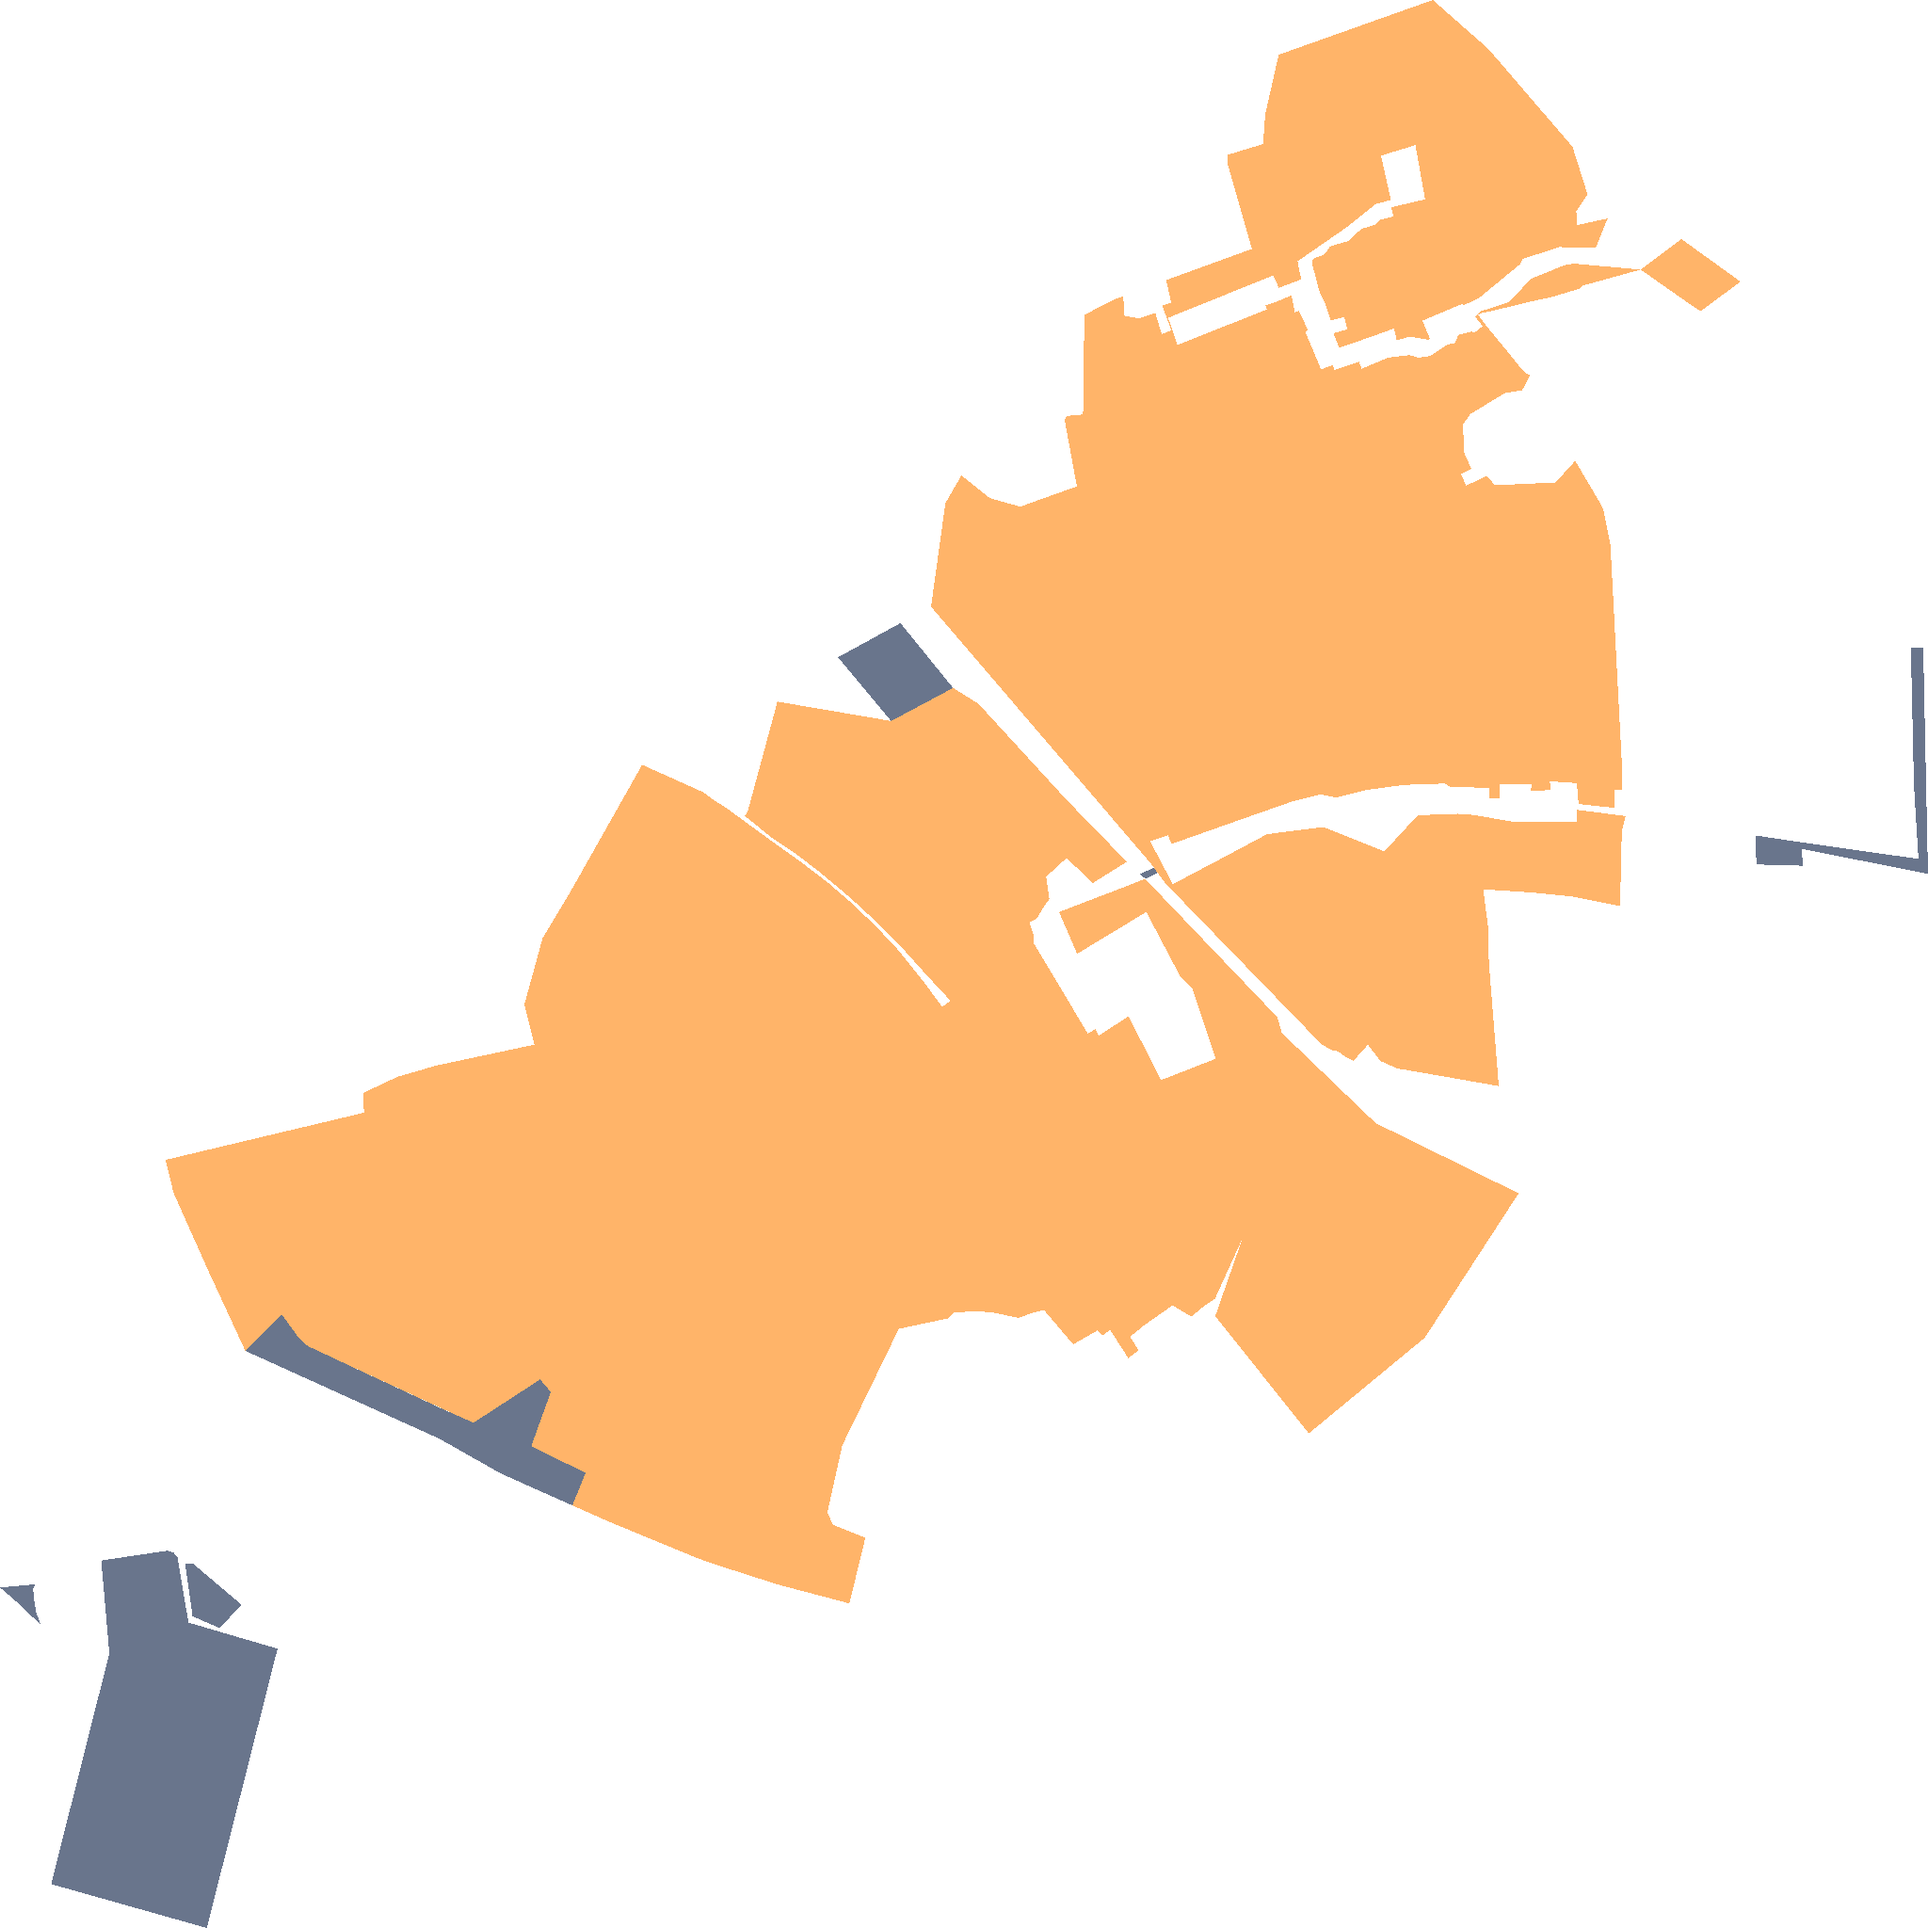
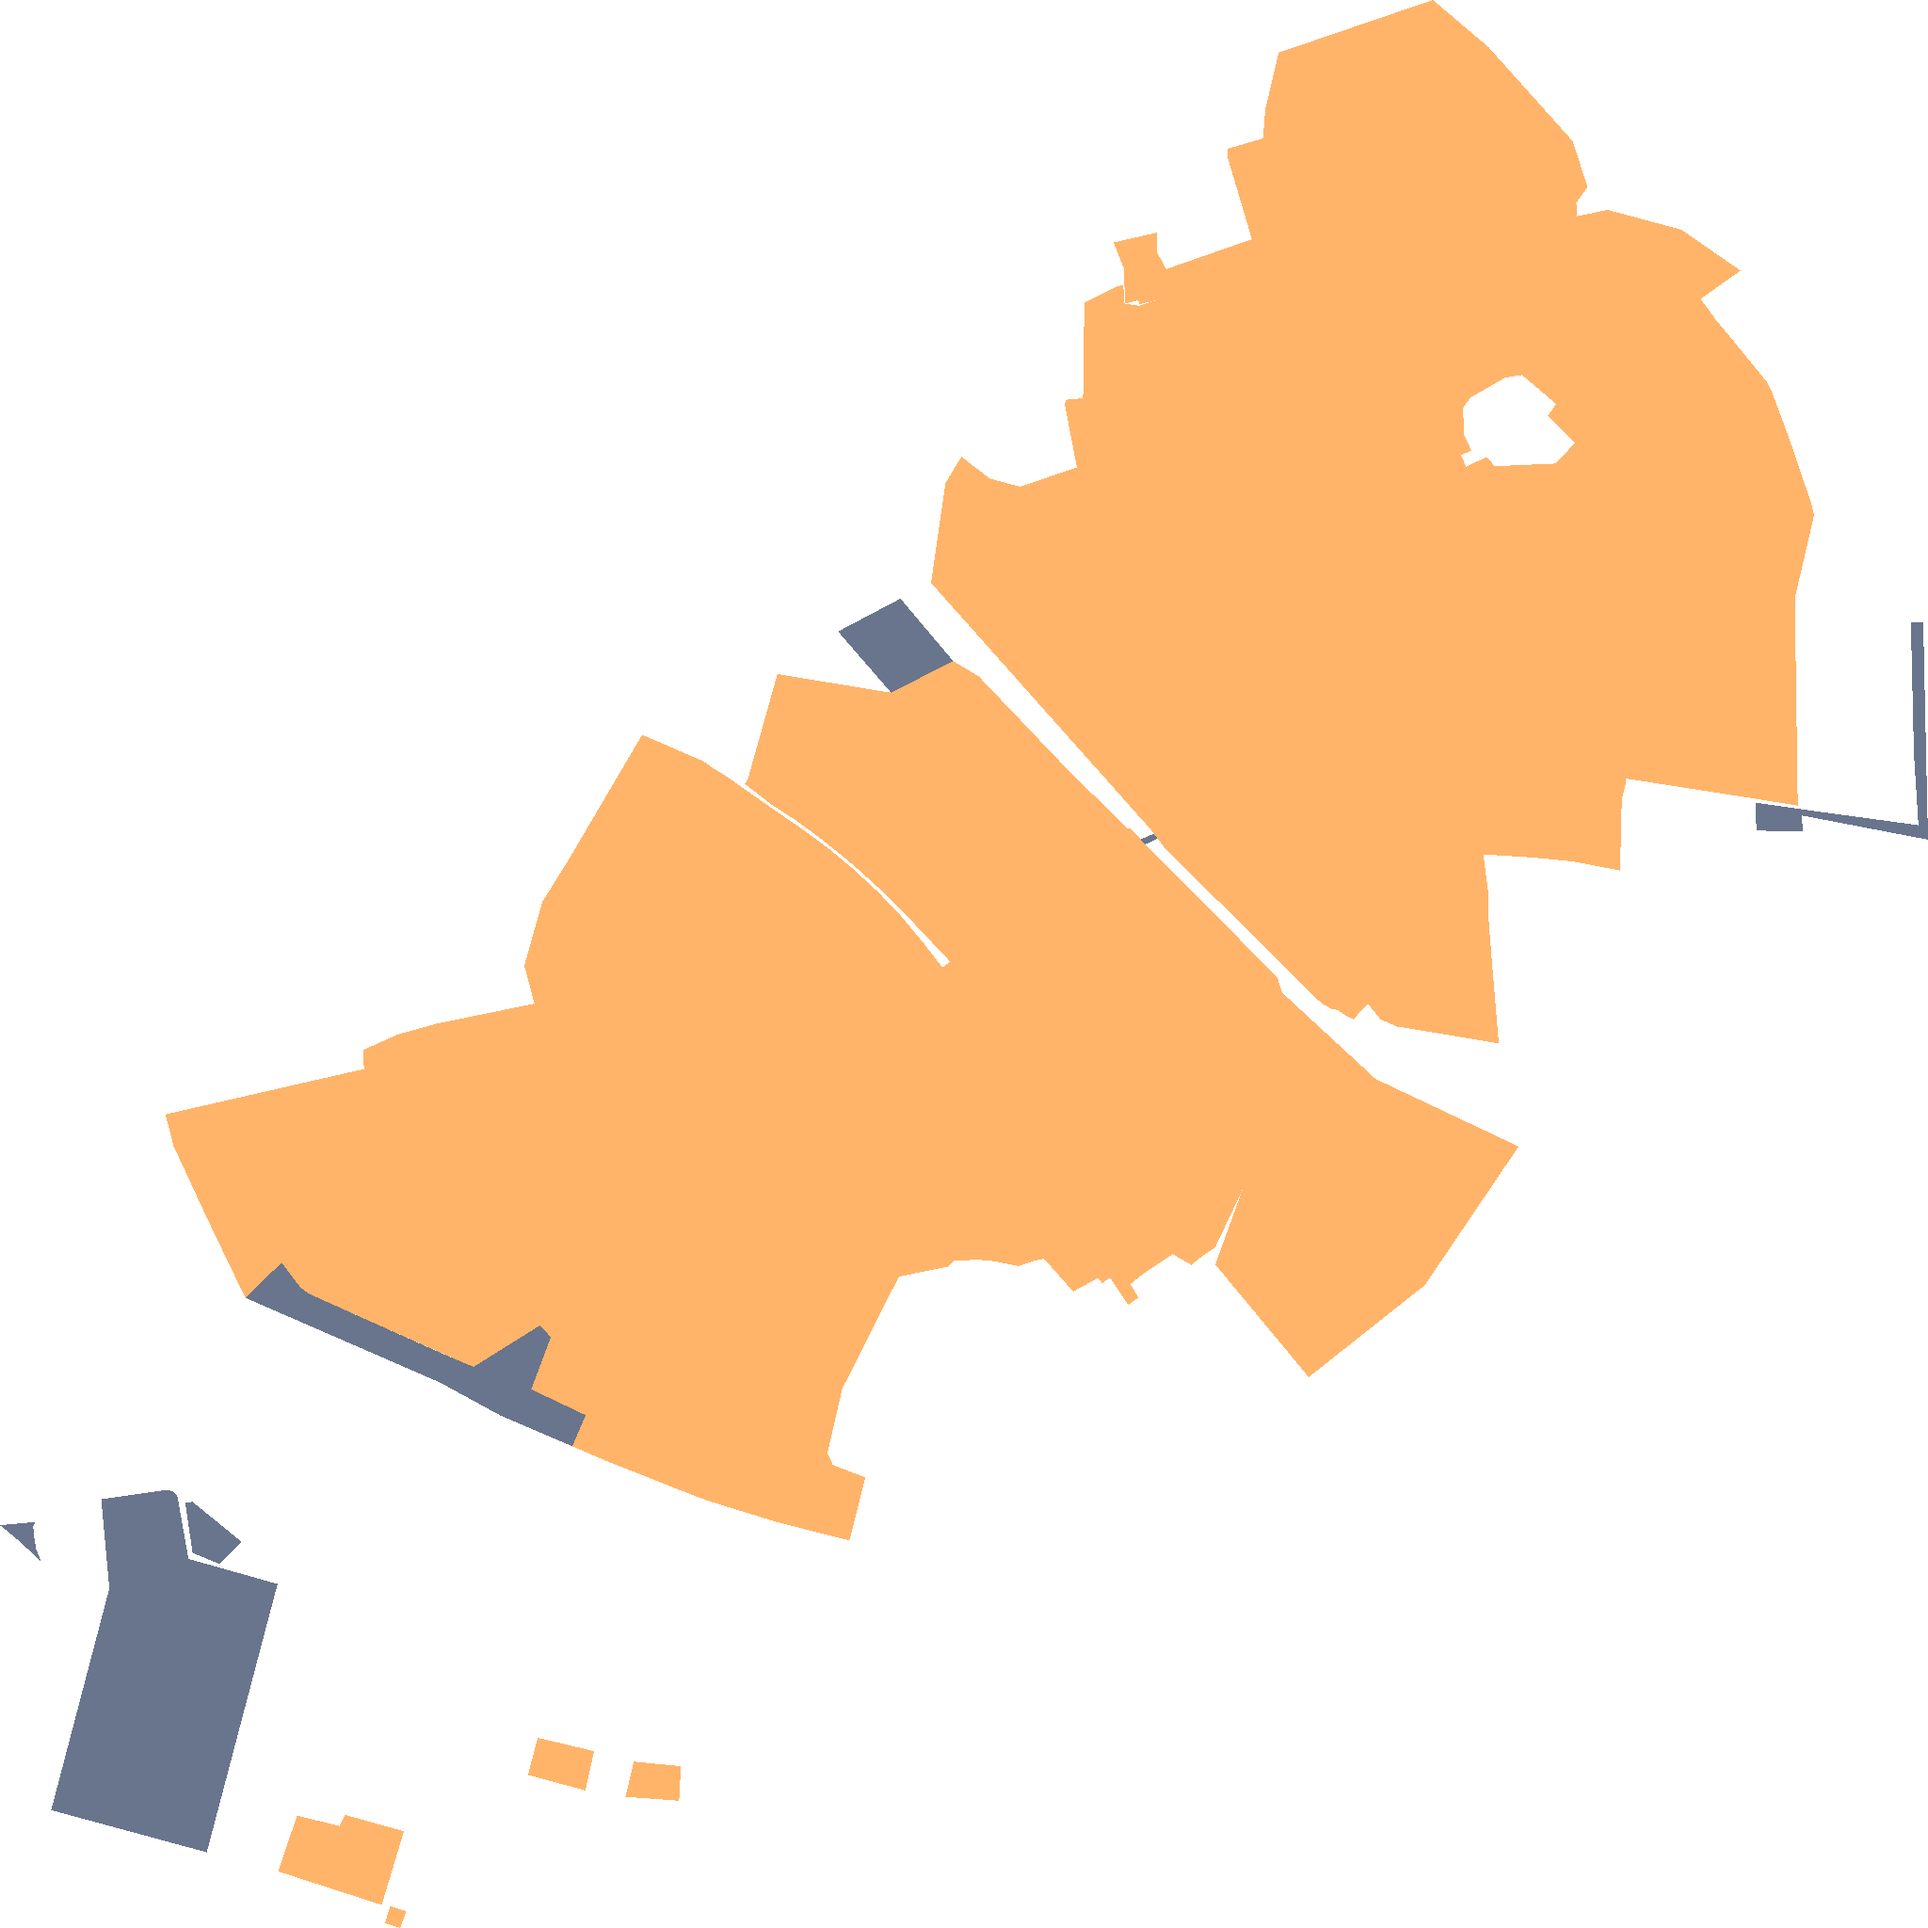
Karte p_257

diff --git a/p_257.html b/p_257.html
@@ -115,7 +115,7 @@
         <div><span style="display:inline-block;width:20px; height:10px; background:#FFC17D; margin-right:5px;"></span>Ausbauphase 3: Gefördertes Ausbaugebiet </div>
     </div>
     <script>
-    const bounds = [[50.0561883, 8.825093314], [50.090537751, 8.881560143]];
+    const bounds = [[50.054784613, 8.825093314], [50.090537751, 8.881560143]];
     const map = L.map('map', {zoomControl: false});
       map.fitBounds(bounds, {padding: [100, 100]});
        const maptiler = L.tileLayer('https://api.maptiler.com/maps/basic/{z}/{x}/{y}.png?key=hP74ooTG3ciBab5RShCg',
